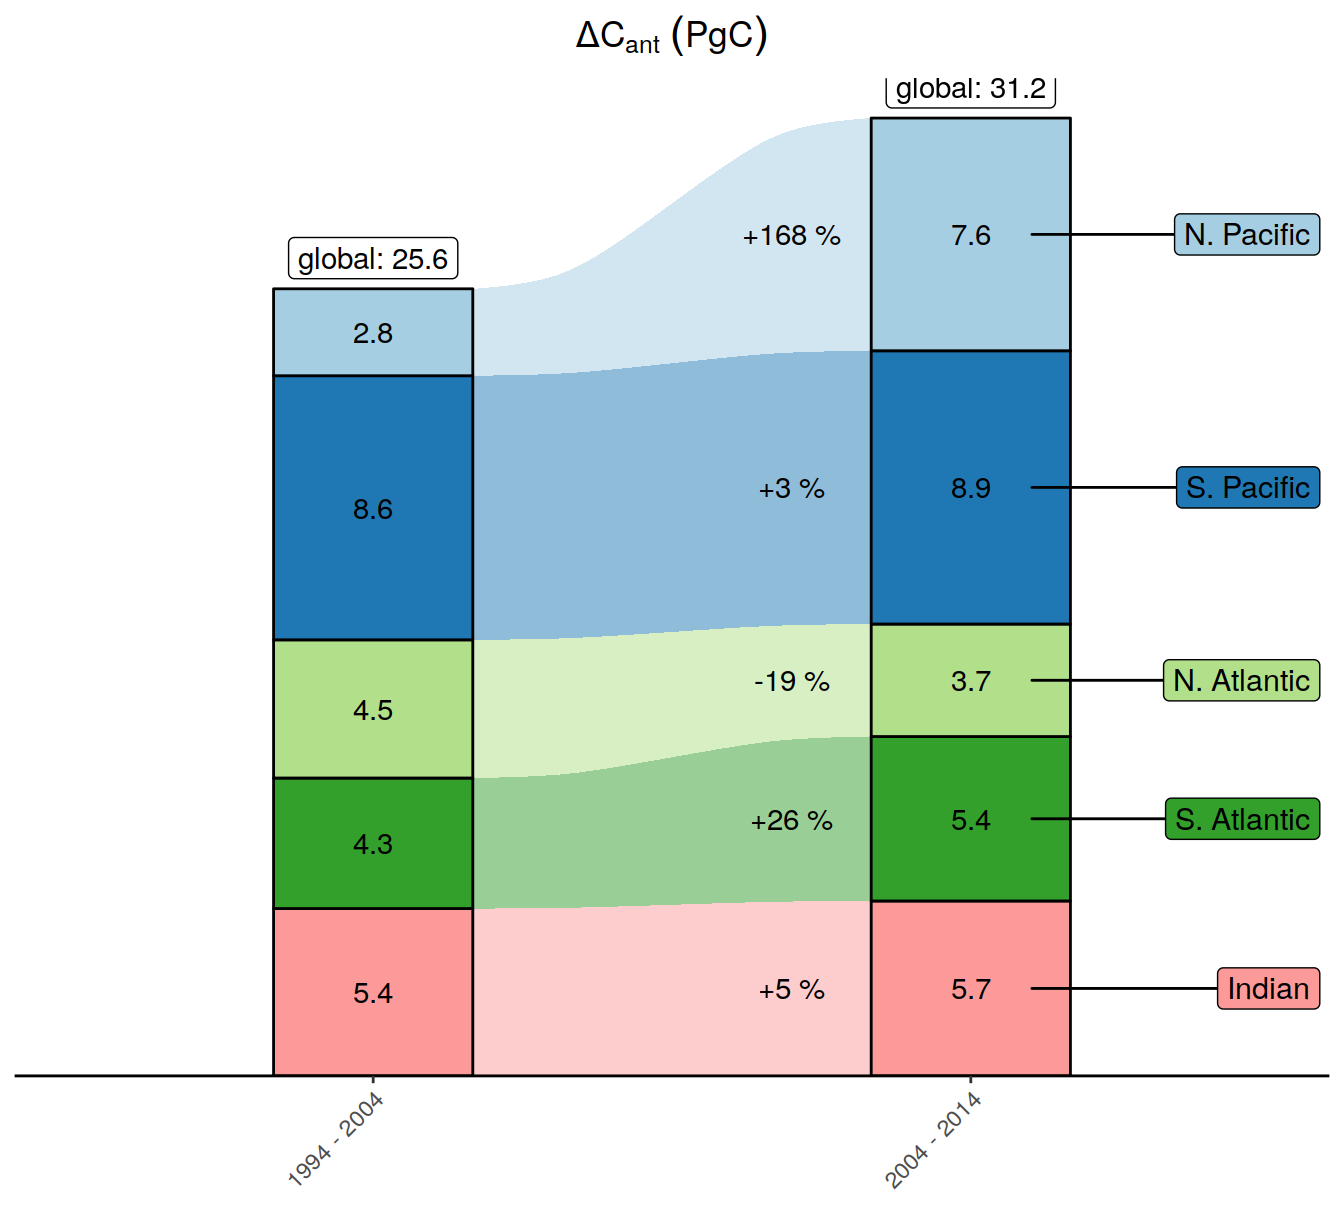
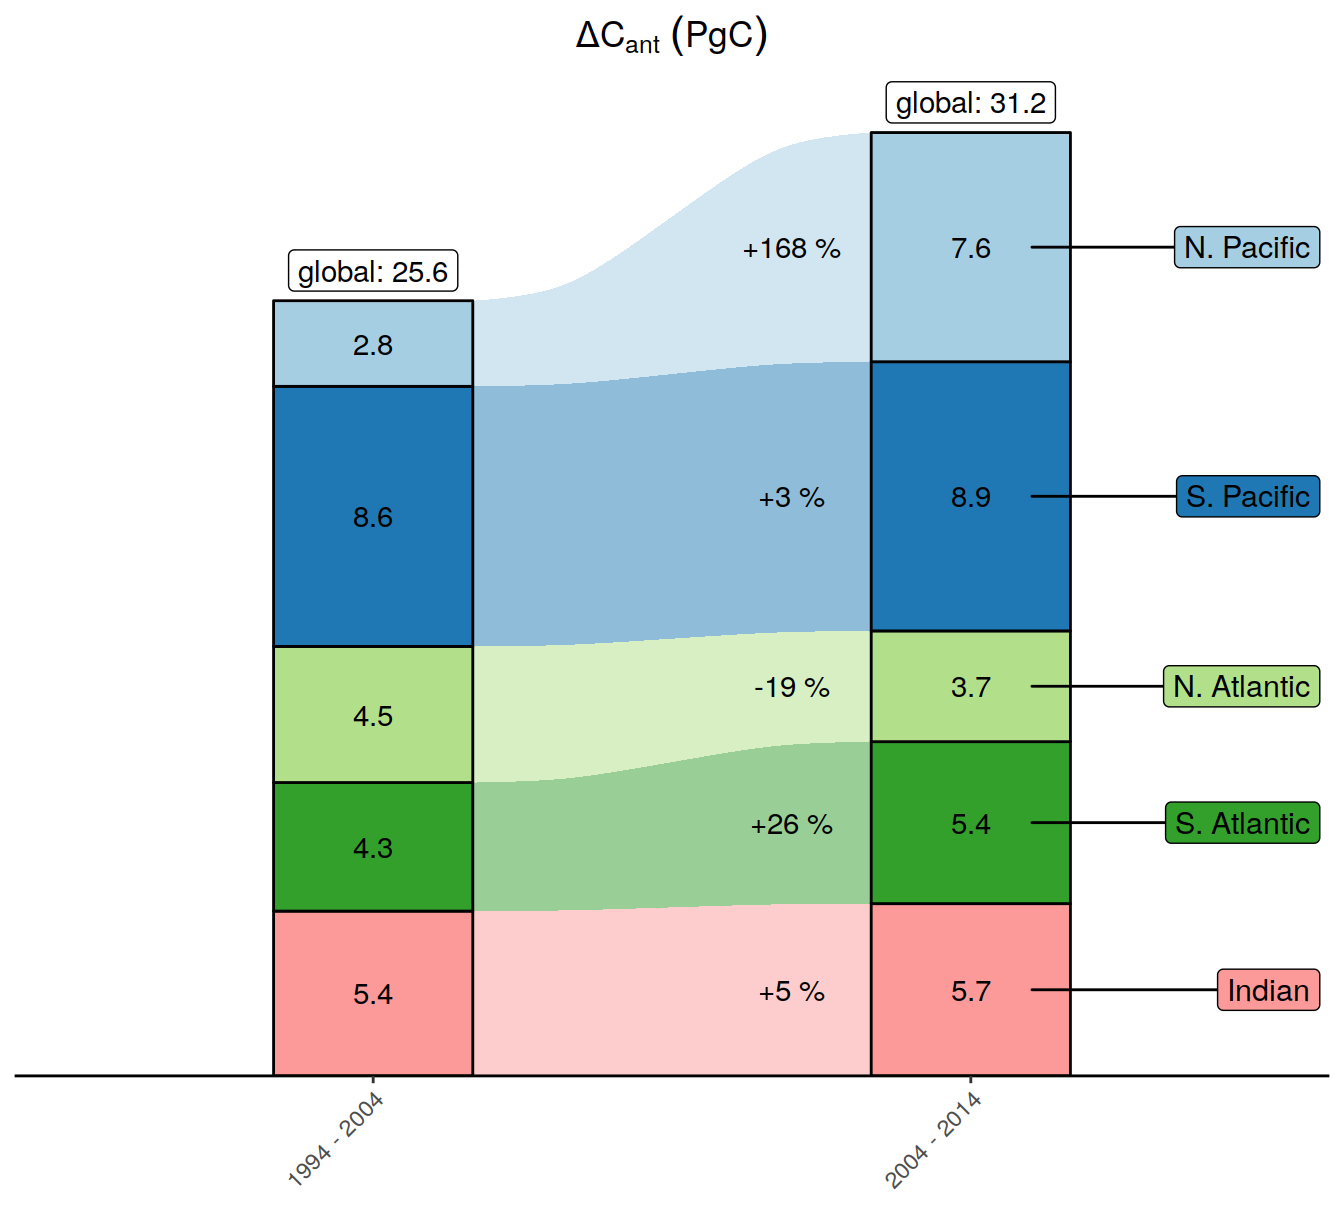
Build site.

diff --git a/docs/results_publication.html b/docs/results_publication.html
@@ -557,7 +557,7 @@ div.tocify {
 
 <h1 class="title toc-ignore">Results publication</h1>
 <h4 class="author">Jens Daniel Müller</h4>
-<h4 class="date">28 January, 2022</h4>
+<h4 class="date">31 January, 2022</h4>
 
 </div>
 
@@ -582,7 +582,7 @@ div.tocify {
 <div class="tab-content">
 <div id="summary" class="tab-pane fade in active">
 <p>
-<strong>Last updated:</strong> 2022-01-28
+<strong>Last updated:</strong> 2022-01-31
 </p>
 <p>
 <strong>Checks:</strong> <span class="glyphicon glyphicon-ok text-success" aria-hidden="true"></span> 7 <span class="glyphicon glyphicon-exclamation-sign text-danger" aria-hidden="true"></span> 0
@@ -673,16 +673,16 @@ This reproducible <a href="https://rmarkdown.rstudio.com">R Markdown</a> analysi
 <div class="panel panel-default">
 <div class="panel-heading">
 <p class="panel-title">
-<a data-toggle="collapse" data-parent="#workflowr-checks" href="#strongRepositoryversionstrongahrefhttpsgithubcomjensdanielmuelleremlrobsanalysistree0a2d89abe8d351770a09eb919ff01034736768cetargetblank0a2d89aa"> <span class="glyphicon glyphicon-ok text-success" aria-hidden="true"></span> <strong>Repository version:</strong> <a href="https://github.com/jens-daniel-mueller/emlr_obs_analysis/tree/0a2d89abe8d351770a09eb919ff01034736768ce" target="_blank">0a2d89a</a> </a>
+<a data-toggle="collapse" data-parent="#workflowr-checks" href="#strongRepositoryversionstrongahrefhttpsgithubcomjensdanielmuelleremlrobsanalysistree5c948aea20015d45eadd24b2027c01eed180a408targetblank5c948aea"> <span class="glyphicon glyphicon-ok text-success" aria-hidden="true"></span> <strong>Repository version:</strong> <a href="https://github.com/jens-daniel-mueller/emlr_obs_analysis/tree/5c948aea20015d45eadd24b2027c01eed180a408" target="_blank">5c948ae</a> </a>
 </p>
 </div>
[2 lines of base64/hex data omitted]
 <div class="panel-body">
 <p>
 Great! You are using Git for version control. Tracking code development and connecting the code version to the results is critical for reproducibility.
 </p>
 <p>
-The results in this page were generated with repository version <a href="https://github.com/jens-daniel-mueller/emlr_obs_analysis/tree/0a2d89abe8d351770a09eb919ff01034736768ce" target="_blank">0a2d89a</a>. See the <em>Past versions</em> tab to see a history of the changes made to the R Markdown and HTML files.
+The results in this page were generated with repository version <a href="https://github.com/jens-daniel-mueller/emlr_obs_analysis/tree/5c948aea20015d45eadd24b2027c01eed180a408" target="_blank">5c948ae</a>. See the <em>Past versions</em> tab to see a history of the changes made to the R Markdown and HTML files.
 </p>
 <p>
 Note that you need to be careful to ensure that all relevant files for the analysis have been committed to Git prior to generating the results (you can use <code>wflow_publish</code> or <code>wflow_git_commit</code>). workflowr only checks the R Markdown file, but you know if there are other scripts or data files that it depends on. Below is the status of the Git repository when the results were generated:
@@ -694,10 +694,6 @@ Ignored files:
     Ignored:    data/
     Ignored:    output/other/
     Ignored:    output/publication/
-
-Unstaged changes:
-    Modified:   analysis/_site.yml
-    Modified:   code/Workflowr_project_managment.R
 
 </code></pre>
 <p>
@@ -736,6 +732,40 @@ Message
 </tr>
 </thead>
 <tbody>
+<tr>
+<td>
+Rmd
+</td>
+<td>
+<a href="https://github.com/jens-daniel-mueller/emlr_obs_analysis/blob/5c948aea20015d45eadd24b2027c01eed180a408/analysis/results_publication.Rmd" target="_blank">5c948ae</a>
+</td>
+<td>
+jens-daniel-mueller
+</td>
+<td>
+2022-01-31
+</td>
+<td>
+added time series vs atm pco2
+</td>
+</tr>
+<tr>
+<td>
+html
+</td>
+<td>
+<a href="https://rawcdn.githack.com/jens-daniel-mueller/emlr_obs_analysis/de557de3db75fa741ddcf6c83c76fe356067991a/docs/results_publication.html" target="_blank">de557de</a>
+</td>
+<td>
+jens-daniel-mueller
+</td>
+<td>
+2022-01-28
+</td>
+<td>
+Build site.
+</td>
+</tr>
 <tr>
 <td>
 html
@@ -1511,7 +1541,7 @@ rm(params_local,
    tref)
 
 params_local_all &lt;- params_local_all %&gt;% 
-  select(Version_ID, period)</code></pre>
+  select(Version_ID, period, tref2)</code></pre>
 </div>
 <div id="budgets" class="section level2" number="2.3">
 <h2><span class="header-section-number">2.3</span> Budgets</h2>
@@ -1941,6 +1971,13 @@ dcant_budget_lon_grid_all &lt;- dcant_budget_lon_grid_all %&gt;%
 
 rm(dcant_zonal, dcant_zonal_bias, dcant_zonal_mod_truth,
    dcant_budget_basin_AIP_layer, dcant_budget_basin_MLR_layer)</code></pre>
+</div>
+<div id="atm-co2" class="section level2" number="2.6">
+<h2><span class="header-section-number">2.6</span> Atm CO2</h2>
+<pre class="r"><code>co2_atm &lt;-
+  read_csv(paste(path_preprocessing,
+                 &quot;co2_atm.csv&quot;,
+                 sep = &quot;&quot;))</code></pre>
 </div>
 </div>
 <div id="define-labels" class="section level1" number="3">
@@ -5642,7 +5679,7 @@ jens-daniel-mueller
   )+
   scale_fill_brewer(palette = &quot;Paired&quot;, guide = &quot;none&quot;) +
   scale_color_brewer(palette = &quot;Paired&quot;, guide = &quot;none&quot;) +
-  scale_y_continuous(limits = c(0, 32.5), expand = c(0, 0)) +
+  scale_y_continuous(limits = c(0, 33), expand = c(0, 0)) +
   guides(y = &quot;none&quot;) +
   labs(title = dcant_pgc_label) +
   theme_classic() +
@@ -5941,6 +5978,48 @@ jens-daniel-mueller
 </table>
 </div>
 </div>
+</div>
+</div>
+</div>
+<div id="time-series" class="section level1" number="8">
+<h1><span class="header-section-number">8</span> Time series</h1>
+<pre class="r"><code>dcant_budget_global_ts &lt;- dcant_budget_global_all %&gt;% 
+  filter(data_source == &quot;obs&quot;,
+         period != &quot;1994 - 2014&quot;) %&gt;% 
+  select(year = tref2, dcant_mean = dcant) %&gt;% 
+  mutate(dcant_sd = 3)
+
+tcant_S04 &lt;- bind_cols(year = 1994, dcant_mean = 118, dcant_sd = 19)
+
+tcant_ts &lt;- full_join(dcant_budget_global_ts, tcant_S04)
+
+tcant_ts &lt;- left_join(tcant_ts, co2_atm)
+
+co2_atm_pi &lt;- bind_cols(pCO2 = 280, dcant_mean = 0, year = 1750, dcant_sd = 0)
+
+tcant_ts &lt;- full_join(tcant_ts, co2_atm_pi)
+
+tcant_ts &lt;- tcant_ts %&gt;% 
+  arrange(year) %&gt;% 
+  mutate(tcant = cumsum(dcant_mean),
+         tcant_sd = cumsum(dcant_sd))
+
+tcant_ts %&gt;% 
+  ggplot(aes(pCO2, tcant, ymin = tcant - tcant_sd, ymax = tcant + tcant_sd)) +
+  geom_ribbon(fill = &quot;grey80&quot;) +
+  geom_point() +
+  geom_line() +
+  scale_x_continuous(breaks = seq(280, 400, 30),
+                     sec.axis = dup_axis(labels =  c(1750, 1940, 1980, 2000, 2015),
+                                         name = &quot;Year&quot;)) +
+  geom_text(aes(label = year), nudge_x = -5, nudge_y = 5) +
+  labs(x = expression(Atmospheric~pCO[2]~(µatm)),
+       y = expression(Total~oceanic~C[ant]~(PgC)))</code></pre>
+<p><img src="figure/results_publication.Rmd/mean_tcant_over_atm_co2-1.png" width="672" style="display: block; margin: auto;" /></p>
+<pre class="r"><code># ggsave(path = &quot;output/publication&quot;,
+#        filename = &quot;Fig_global_dcant_budget_vs_atm_pCO2.png&quot;,
+#        height = 4,
+#        width = 7)</code></pre>
 <br>
 <p>
 <button type="button" class="btn btn-default btn-workflowr btn-workflowr-sessioninfo" data-toggle="collapse" data-target="#workflowr-sessioninfo" style="display: block;">
@@ -5996,8 +6075,6 @@ loaded via a namespace (and not attached):
 [73] cellranger_1.1.0   gtable_0.3.0       polyclip_1.10-0    assertthat_0.2.1  
 [77] xfun_0.29          broom_0.7.11       later_1.3.0        viridisLite_0.4.0 
 [81] ellipsis_0.3.2    </code></pre>
-</div>
-</div>
 </div>
 </div>
 
